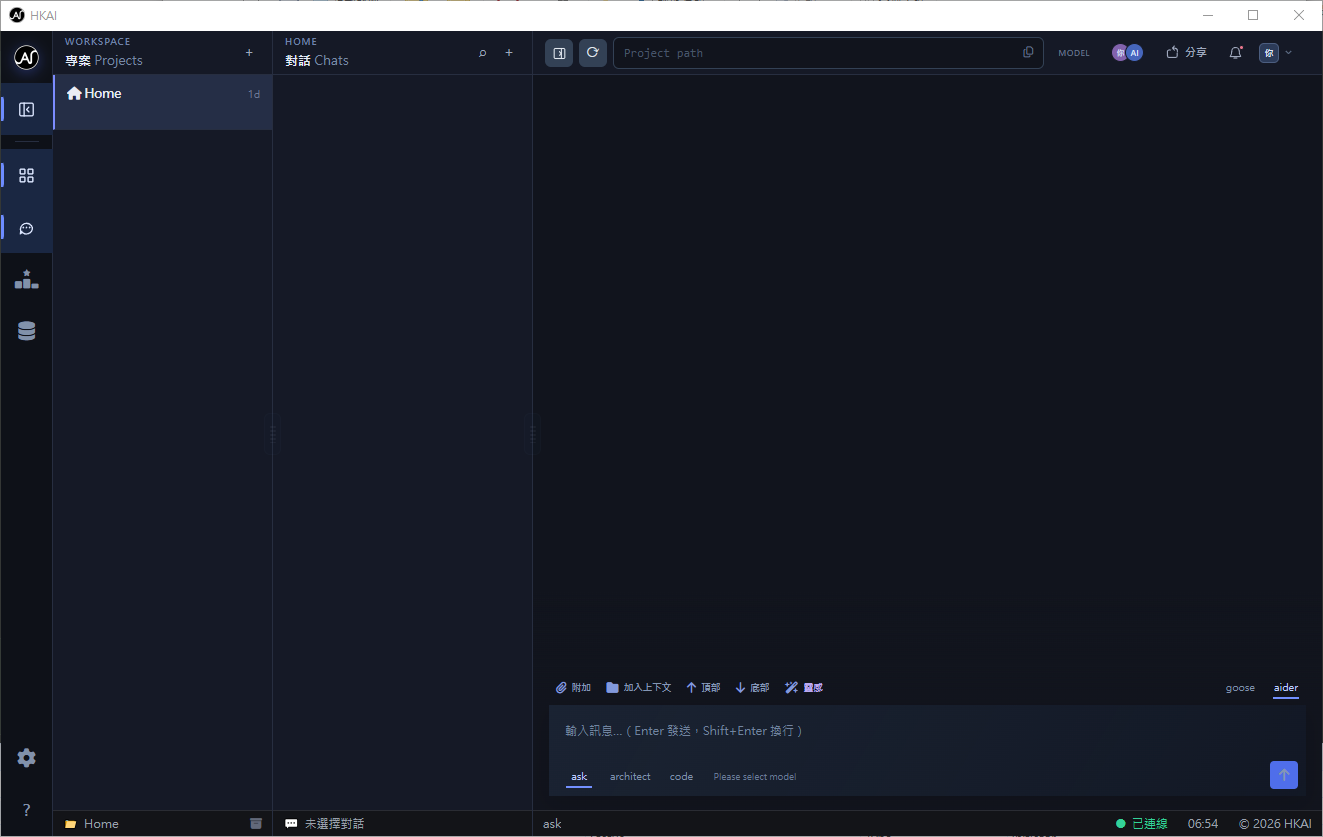
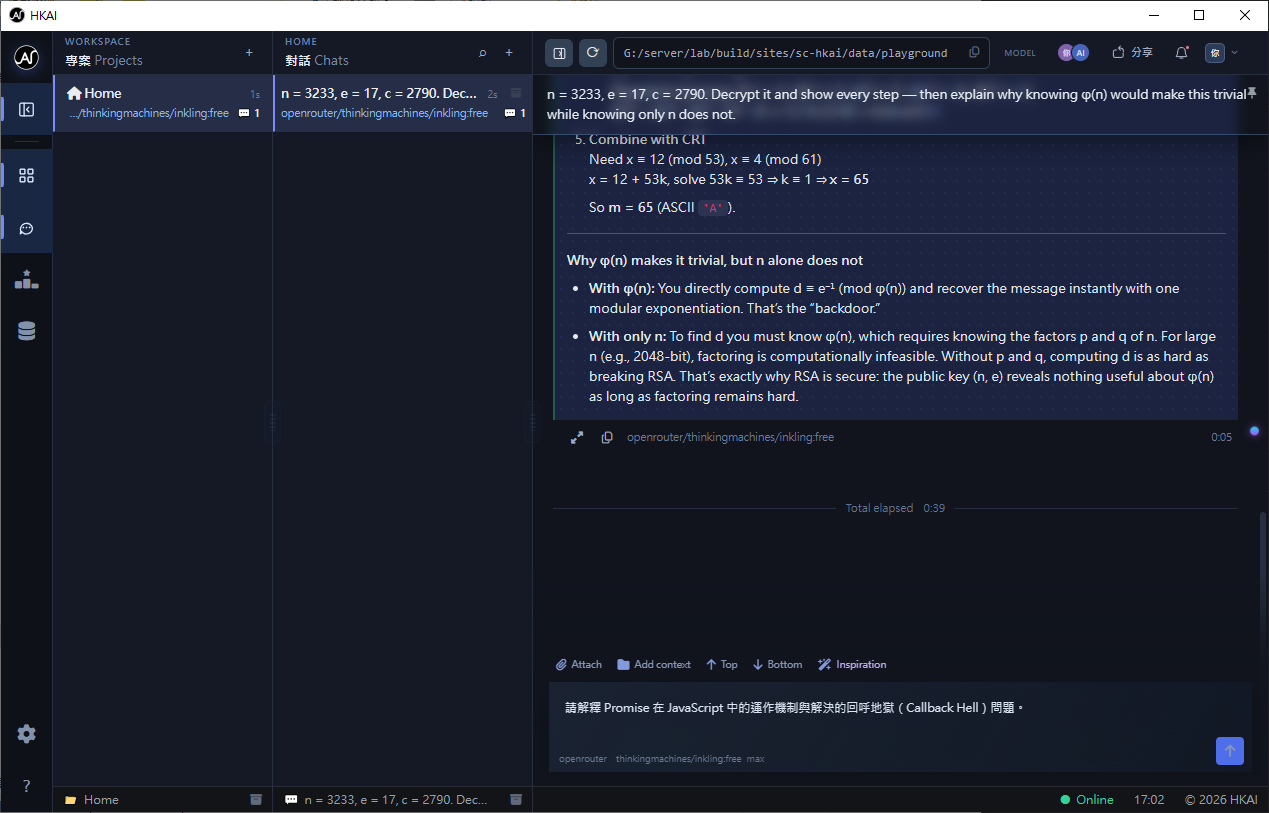
README 截圖更新為 0.2.0 實機（GIF 操作示範＋對話／模型／排行榜三圖）

diff --git a/README.md b/README.md
@@ -12,6 +12,8 @@ Everything ships in one folder — UI, HTTP server, PHP runtime and agent engine
 
 ## Screenshots
 
+![HKAI walkthrough](docs/screenshots/00-demo.gif)
+
 ![HKAI chat interface](docs/screenshots/01-chat.png)
 
 ![Model picker](docs/screenshots/02-models.png)

diff --git a/README.zh-CN.md b/README.zh-CN.md
@@ -12,6 +12,8 @@
 
 ## 截图
 
+![HKAI 操作演示](docs/screenshots/00-demo.gif)
+
 ![HKAI 对话界面](docs/screenshots/01-chat.png)
 
 ![模型选择器](docs/screenshots/02-models.png)

diff --git a/README.zh-HK.md b/README.zh-HK.md
@@ -12,6 +12,8 @@
 
 ## 截圖
 
+![HKAI 操作示範](docs/screenshots/00-demo.gif)
+
 ![HKAI 對話介面](docs/screenshots/01-chat.png)
 
 ![模型選擇器](docs/screenshots/02-models.png)
